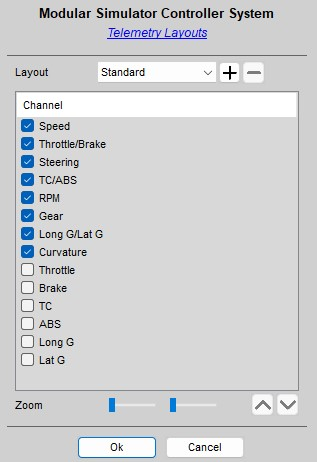
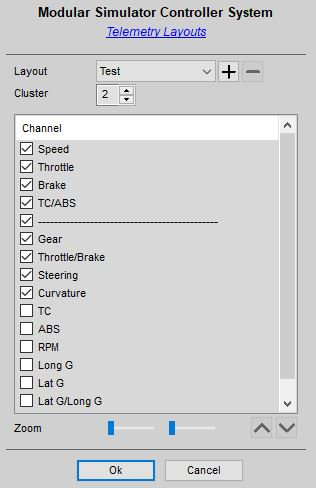
Channel clustering in Telemetry Viewer Part 3

Changed region(s): [[0.0285, 0.0, 0.9684, 1.0], [0.5411, 0.4545, 0.5981, 0.4848], [0.4557, 0.4545, 0.4842, 0.4848]]

diff --git a/Docs/Session Database.md b/Docs/Session Database.md
@@ -139,6 +139,8 @@ With the controls in the upper right, you can change the zoom factor in both dim
 
 Select the channels you want to display in the telemetry graph and move them up and down as you like. Please note, that not every channel is available for every simulator or for data imported from external sources. Additionally, only telemetry data from the same source may be really comparable.
 
+If you you want to group your channels into separate clusters in the telemetry graph, increase the value in the "Cluster" field. A divider line will be added at the end of the channel list, which you can move up to where you want to start a new group of channels.
+
 If available, a map for the current track can be opened with the "Map..." button. You can click on a location of the track map and the corresponding data points will be highlighted in the telemetry graph. It is also possible to click on a data point in the graph and the corresponding location will be selected in the track map. When clicking on a point in the graph, an additional window will be opened as long as track sections have been defined for the given track, which displays a performance summary of the given section.
 
 Important: This functionality may not be available when using *WebView2* as the HTML viewer.
